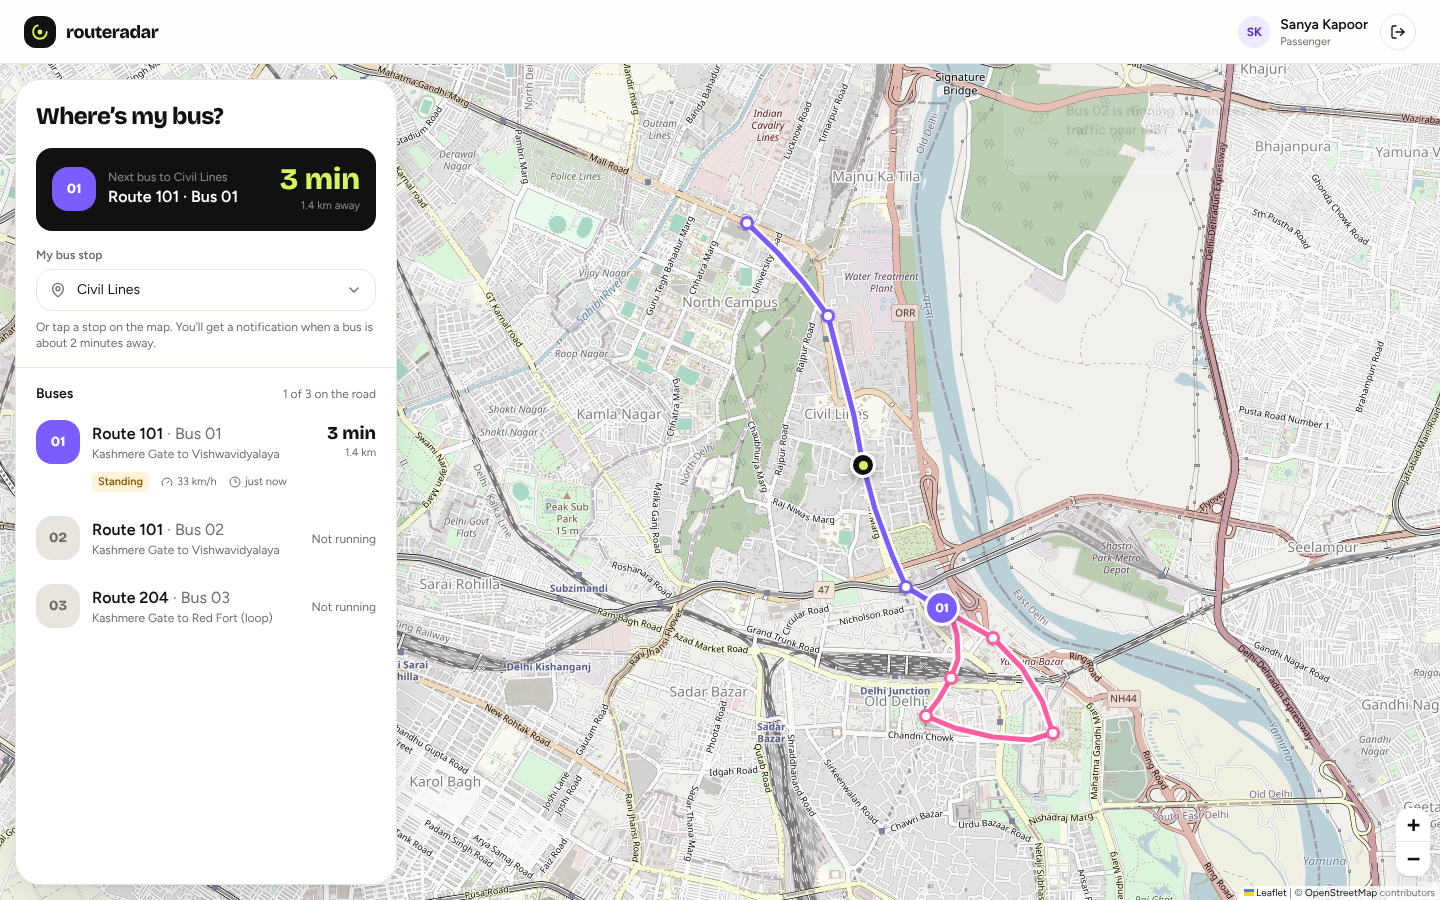
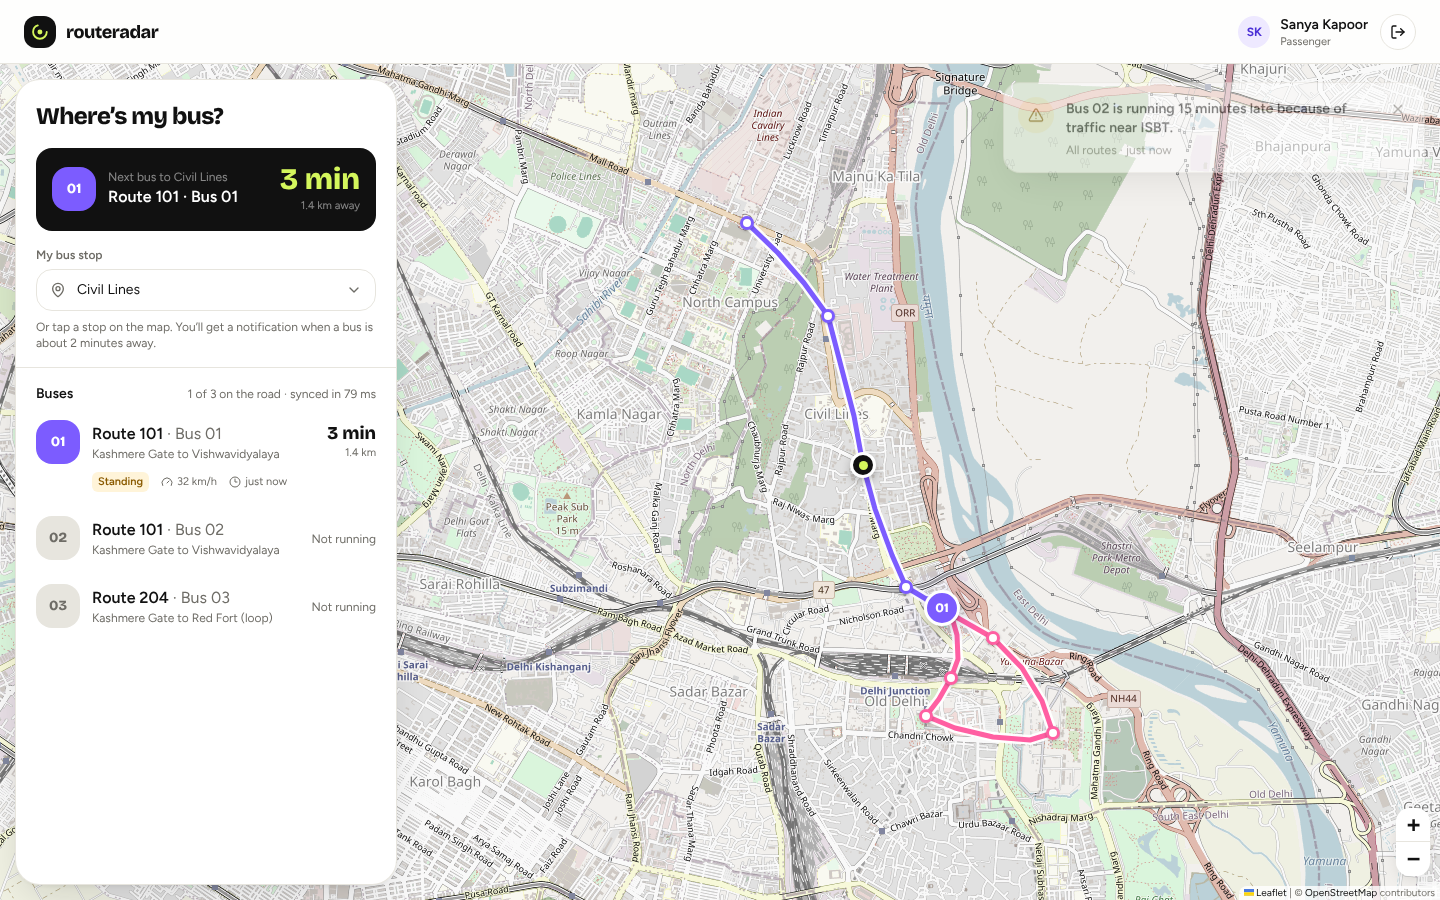
Show sync delay as plain status text
- passenger list shows buses on the road and sync delay
- admin dashboard has a sync delay card

Changed region(s): [[0.6875, 0.0933, 1.0, 0.2178], [0.1562, 0.4356, 0.25, 0.4667]]

diff --git a/src/pages/admin/Overview.jsx b/src/pages/admin/Overview.jsx
@@ -1,12 +1,12 @@
 import { useState } from 'react'
 import { orderBy, limit } from 'firebase/firestore'
 import {
-  Bus, Users, Activity, MonitorSmartphone, Database, Globe2, ShieldCheck, Server, Sparkles, Loader2, Smartphone, Monitor, ChevronRight,
+  Bus, Users, Activity, Timer, Database, Globe2, ShieldCheck, Server, Sparkles, Loader2, Smartphone, Monitor, ChevronRight,
 } from 'lucide-react'
 import LiveMap from '../../components/LiveMap'
 import { Stat, PageTitle, ErrorBox } from '../../components/ui'
 import { useCollection, toMs, useTicker } from '../../lib/data'
-import { useFleet, ago, BusBadge } from '../PassengerMap'
+import { useFleet, ago, BusBadge, useSyncLatency } from '../PassengerMap'
 import { seedDemoData } from '../../lib/seed'
 import { fmtDist } from '../../lib/geo'
 
@@ -14,7 +14,8 @@ const ONLINE_MS = 60_000
 
 export default function Overview() {
   useTicker(2000)
-  const { routes, fleet, loading } = useFleet()
+  const { routes, fleet, loading, live } = useFleet()
+  const latency = useSyncLatency(live)
   const presence = useCollection('presence')
   const trips = useCollection('trips', [orderBy('startedAt', 'desc'), limit(50)])
   const [seeding, setSeeding] = useState(false)
@@ -47,9 +48,9 @@ export default function Overview() {
 
       <div className="grid grid-cols-2 gap-4 xl:grid-cols-4">
         <Stat label="Buses live" value={`${liveBuses.length} / ${fleet.length}`} sub="sharing location now" icon={Bus} tone="lime" />
-        <Stat label="People online" value={online.length} sub={['passenger', 'driver', 'admin'].map((r) => `${byRole(r)} ${r}${byRole(r) === 1 ? '' : 's'}`).join(' · ')} icon={Users} tone="violet" />
+        <Stat label="People online" value={online.length} sub={`${['passenger', 'driver', 'admin'].map((r) => `${byRole(r)} ${r}${byRole(r) === 1 ? '' : 's'}`).join(' · ')} · ${phones} on phones`} icon={Users} tone="violet" />
         <Stat label="Trips today" value={tripsToday.length} sub={`${fmtDist(kmToday)} driven`} icon={Activity} tone="amber" />
-        <Stat label="Devices" value={online.length} sub={`${phones} phone${phones === 1 ? '' : 's'} · ${online.length - phones} laptop${online.length - phones === 1 ? '' : 's'}`} icon={MonitorSmartphone} tone="pink" />
+        <Stat label="Sync delay" value={latency != null ? `${latency} ms` : '-'} sub="driver’s phone to this screen" icon={Timer} tone="pink" />
       </div>
 
       <div className="grid gap-4 xl:grid-cols-[1fr_340px]">

diff --git a/src/pages/PassengerMap.jsx b/src/pages/PassengerMap.jsx
@@ -34,6 +34,24 @@ export function useFleet() {
   return { routes: routes.data, fleet, loading: routes.loading || buses.loading, error: routes.error || buses.error || live.error, live: live.data }
 }
 
+// time between the driver's phone writing a point and this screen receiving it
+export function useSyncLatency(live) {
+  const seen = useRef({})
+  const [latency, setLatency] = useState(null)
+  useEffect(() => {
+    live.forEach((l) => {
+      if (l.clientTs && seen.current[l.id] !== l.clientTs) {
+        if (seen.current[l.id] !== undefined) {
+          const ms = Date.now() - l.clientTs
+          if (ms >= 0 && ms < 10_000) setLatency(ms)
+        }
+        seen.current[l.id] = l.clientTs
+      }
+    })
+  }, [live])
+  return latency
+}
+
 export function ago(ms) {
   if (!ms) return 'never'
   const s = Math.max(0, Math.round((Date.now() - ms) / 1000))
@@ -63,7 +81,8 @@ export function BusBadge({ bus, route, size = 'h-11 w-11 text-sm' }) {
 export default function PassengerMap() {
   useTicker(1000)
   const { profile, user } = useAuth()
-  const { routes, fleet, error } = useFleet()
+  const { routes, fleet, error, live } = useFleet()
+  const latency = useSyncLatency(live)
   const alerts = useActiveAlerts()
   const [selected, setSelected] = useState(null)
   const [flyTo, setFlyTo] = useState(null)
@@ -201,7 +220,7 @@ export default function PassengerMap() {
 
           <div className="flex items-center justify-between border-t border-line px-5 pb-1 pt-4">
             <span className="text-sm font-semibold">Buses</span>
-            <span className="text-xs text-muted">{liveCount} of {fleet.length} on the road</span>
+            <span className="text-xs text-muted">{liveCount} of {fleet.length} on the road{latency != null ? ` · synced in ${latency} ms` : ''}</span>
           </div>
           <div className="flex-1 overflow-y-auto px-2 pb-2">
             {error && <div className="m-3 rounded-2xl bg-red-soft p-3 text-sm text-red">Couldn’t load data: {error.code || error.message}</div>}

diff --git a/README.md b/README.md
@@ -95,7 +95,7 @@ flowchart LR
 | Cloud for transportation (Unit III) | The whole project. |
 | Cloud providers (Unit IV) | Firebase is part of Google Cloud. |
 | High availability | Vercel's CDN, Google-managed database replication, offline cache, and a scheduled function that marks buses offline if a phone dies. |
-| Real-time sync | Every screen uses Firestore `onSnapshot`, so bus positions, alerts and approvals show up without refreshing. |
+| Real-time sync | Every screen uses Firestore `onSnapshot`, so bus positions, alerts and approvals show up without refreshing. The passenger page and admin dashboard show the measured sync delay in ms. |
 
 ## Security
 
